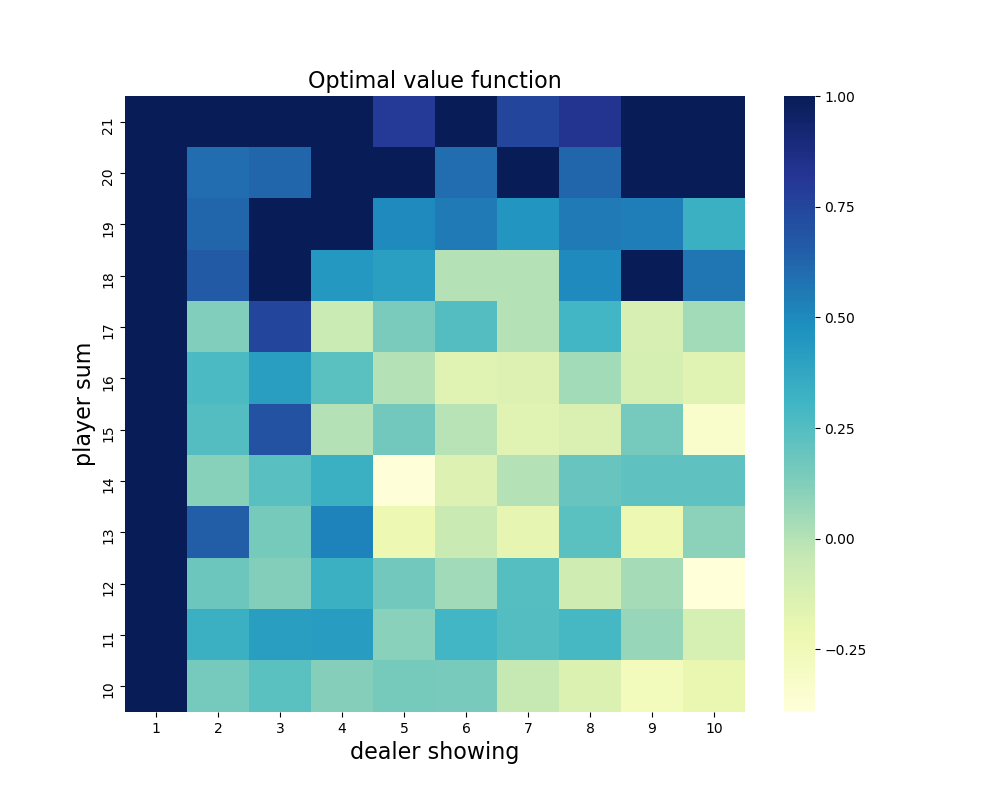
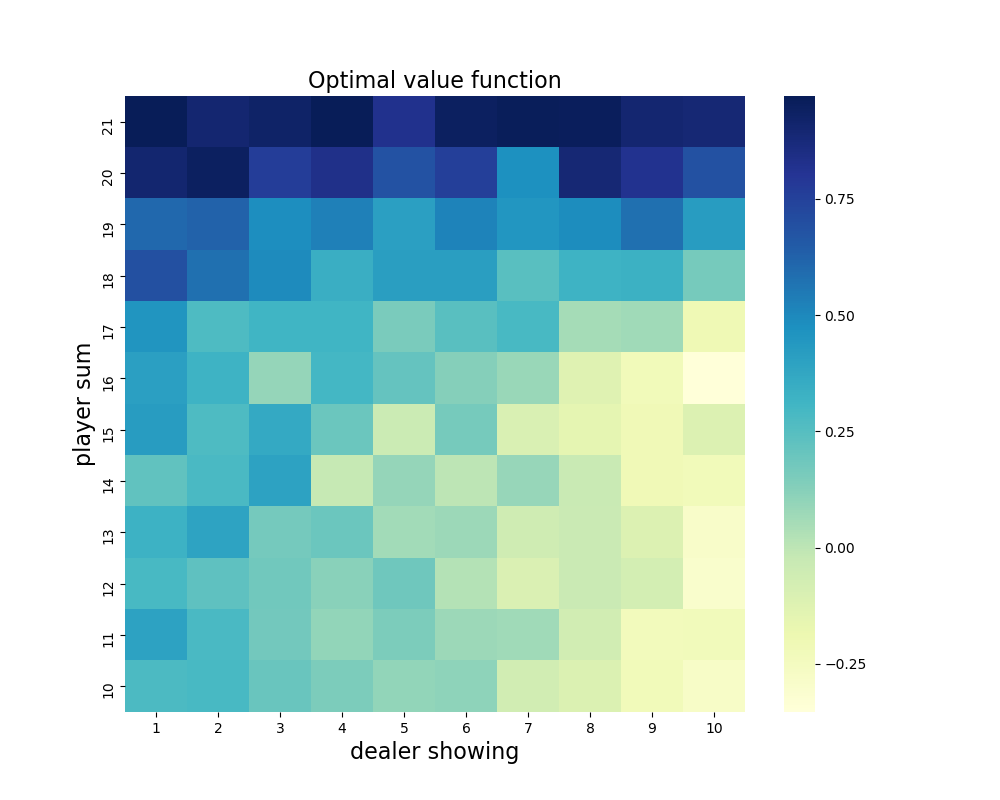
FIX DEALER POLICY

diff --git a/Easy21.py b/Easy21.py
@@ -32,8 +32,8 @@ def get_collor(firstCard):
 	if(firstCard):
 		return 1 #black
 
-	x = np.random.uniform(0, 1)
-	if (x < (1/3)):
+	x = np.random.randint(0, 3)
+	if (x < 1):
 		return -1 #red
 	return 1 #black
 
@@ -51,7 +51,7 @@ def step(state, action):
 		while True:
 			# try what happens if the dealer stands only when he is winning or drawing
 			#if (dealer_sum >= player_sum or dealer_sum < 1 or 17 <= dealer_sum):
-			if (17 <= dealer_sum or dealer_sum <= 1):
+			if (17 <= dealer_sum or dealer_sum < 1):
 				break
 			else:
 				dealer_sum += get_card()
@@ -77,6 +77,7 @@ def monte_carlo_controll(numGames, Qmc, N0):
 
 	Nsa = defaultdict(int)  # nr of action a picked from state s
 	Ns = defaultdict(int) # nr state s visited
+	c = 0
 
 	for i in range(0, numGames):
 		# get first cards
@@ -99,14 +100,14 @@ def monte_carlo_controll(numGames, Qmc, N0):
 			# get action w.r.t. probabilities
 			action = np.random.choice(np.arange(len(ACTIONS)), p=probs)
 
+			# keep track of states visited and action taken in this episode
+			trajectory.append((state, action))
+			
 			# update number of times action was selected from this state
 			Nsa[(state, action)] += 1
 
 			# get next_state and reward
 			next_state, reward = step(state, action)
-
-			# keep track of states visited and action taken in this episode
-			trajectory.append((state, action))
 			
 			if (reward is not None):
 				if reward == 1:
@@ -114,7 +115,7 @@ def monte_carlo_controll(numGames, Qmc, N0):
 				Ns[next_state] += 1
 				break
 			
-			state = tuple(next_state)
+			state = next_state
 			
 
 		for state_action in trajectory:
@@ -197,7 +198,6 @@ def sarsa_lambda(numgames, Qsarsa, Qmc, _lambda=0.1):
 def plot_MC(Q):
 	# For plotting: Create value function from action-value function
 	# by picking the best action at each state
-	grid = []
 	state_action_values = np.zeros((12, 10))
 	for player_sum in range(10, 22):
 		for dealer_first in range(1, 11):
@@ -225,13 +225,14 @@ N0 = 1000
 # and it will never be to big or to small, keys must also be hashable so i use ints or tuples
 Qmc = defaultdict(float) #  Will use a tuple of (state, action) as a key!
 
-win, Qmc = monte_carlo_controll(10000, Qmc, N0)
+win, Qmc = monte_carlo_controll(100000, Qmc, N0)
+
 plot_MC(Qmc)
 # plot the optimal value function on a heat map, TODO change this to 3D?
 # is the player so likely to win when the dealer card is 1 for there is no usable ace and he might go bust? (draw a negative card)
 print(win)
 
-# get lambda from 0, 0.1, ..., 1.0
+''' # get lambda from 0, 0.1, ..., 1.0
 lmbda = np.arange(0, 1.1, 0.1)
 
 # to keep track of mean-squared errors for plotting later
@@ -245,6 +246,7 @@ for l in lmbda:
 
 # print the mean-squared errors for each lambda for observation
 for i in range(0, len(errors)):
-	print('lambda: ',lmbda[i], ' mean-squared-error: ', errors[i])
+	print('lambda: ',lmbda[i], ' mean-squared-error: ', errors[i]) '''
+	
 
 

diff --git a/scraps.py b/scraps.py
@@ -51,7 +51,11 @@ for x in s:
 
 print(m)
  '''
-print(np.arange(0,1.1,0.1))
-# vantar gæja sem er s[x, y] = v
+
+
+test = defaultdict(float)
+test[(20, -1), 1] += 1
+
+print(test[((20,-1), 1)])
 
 
